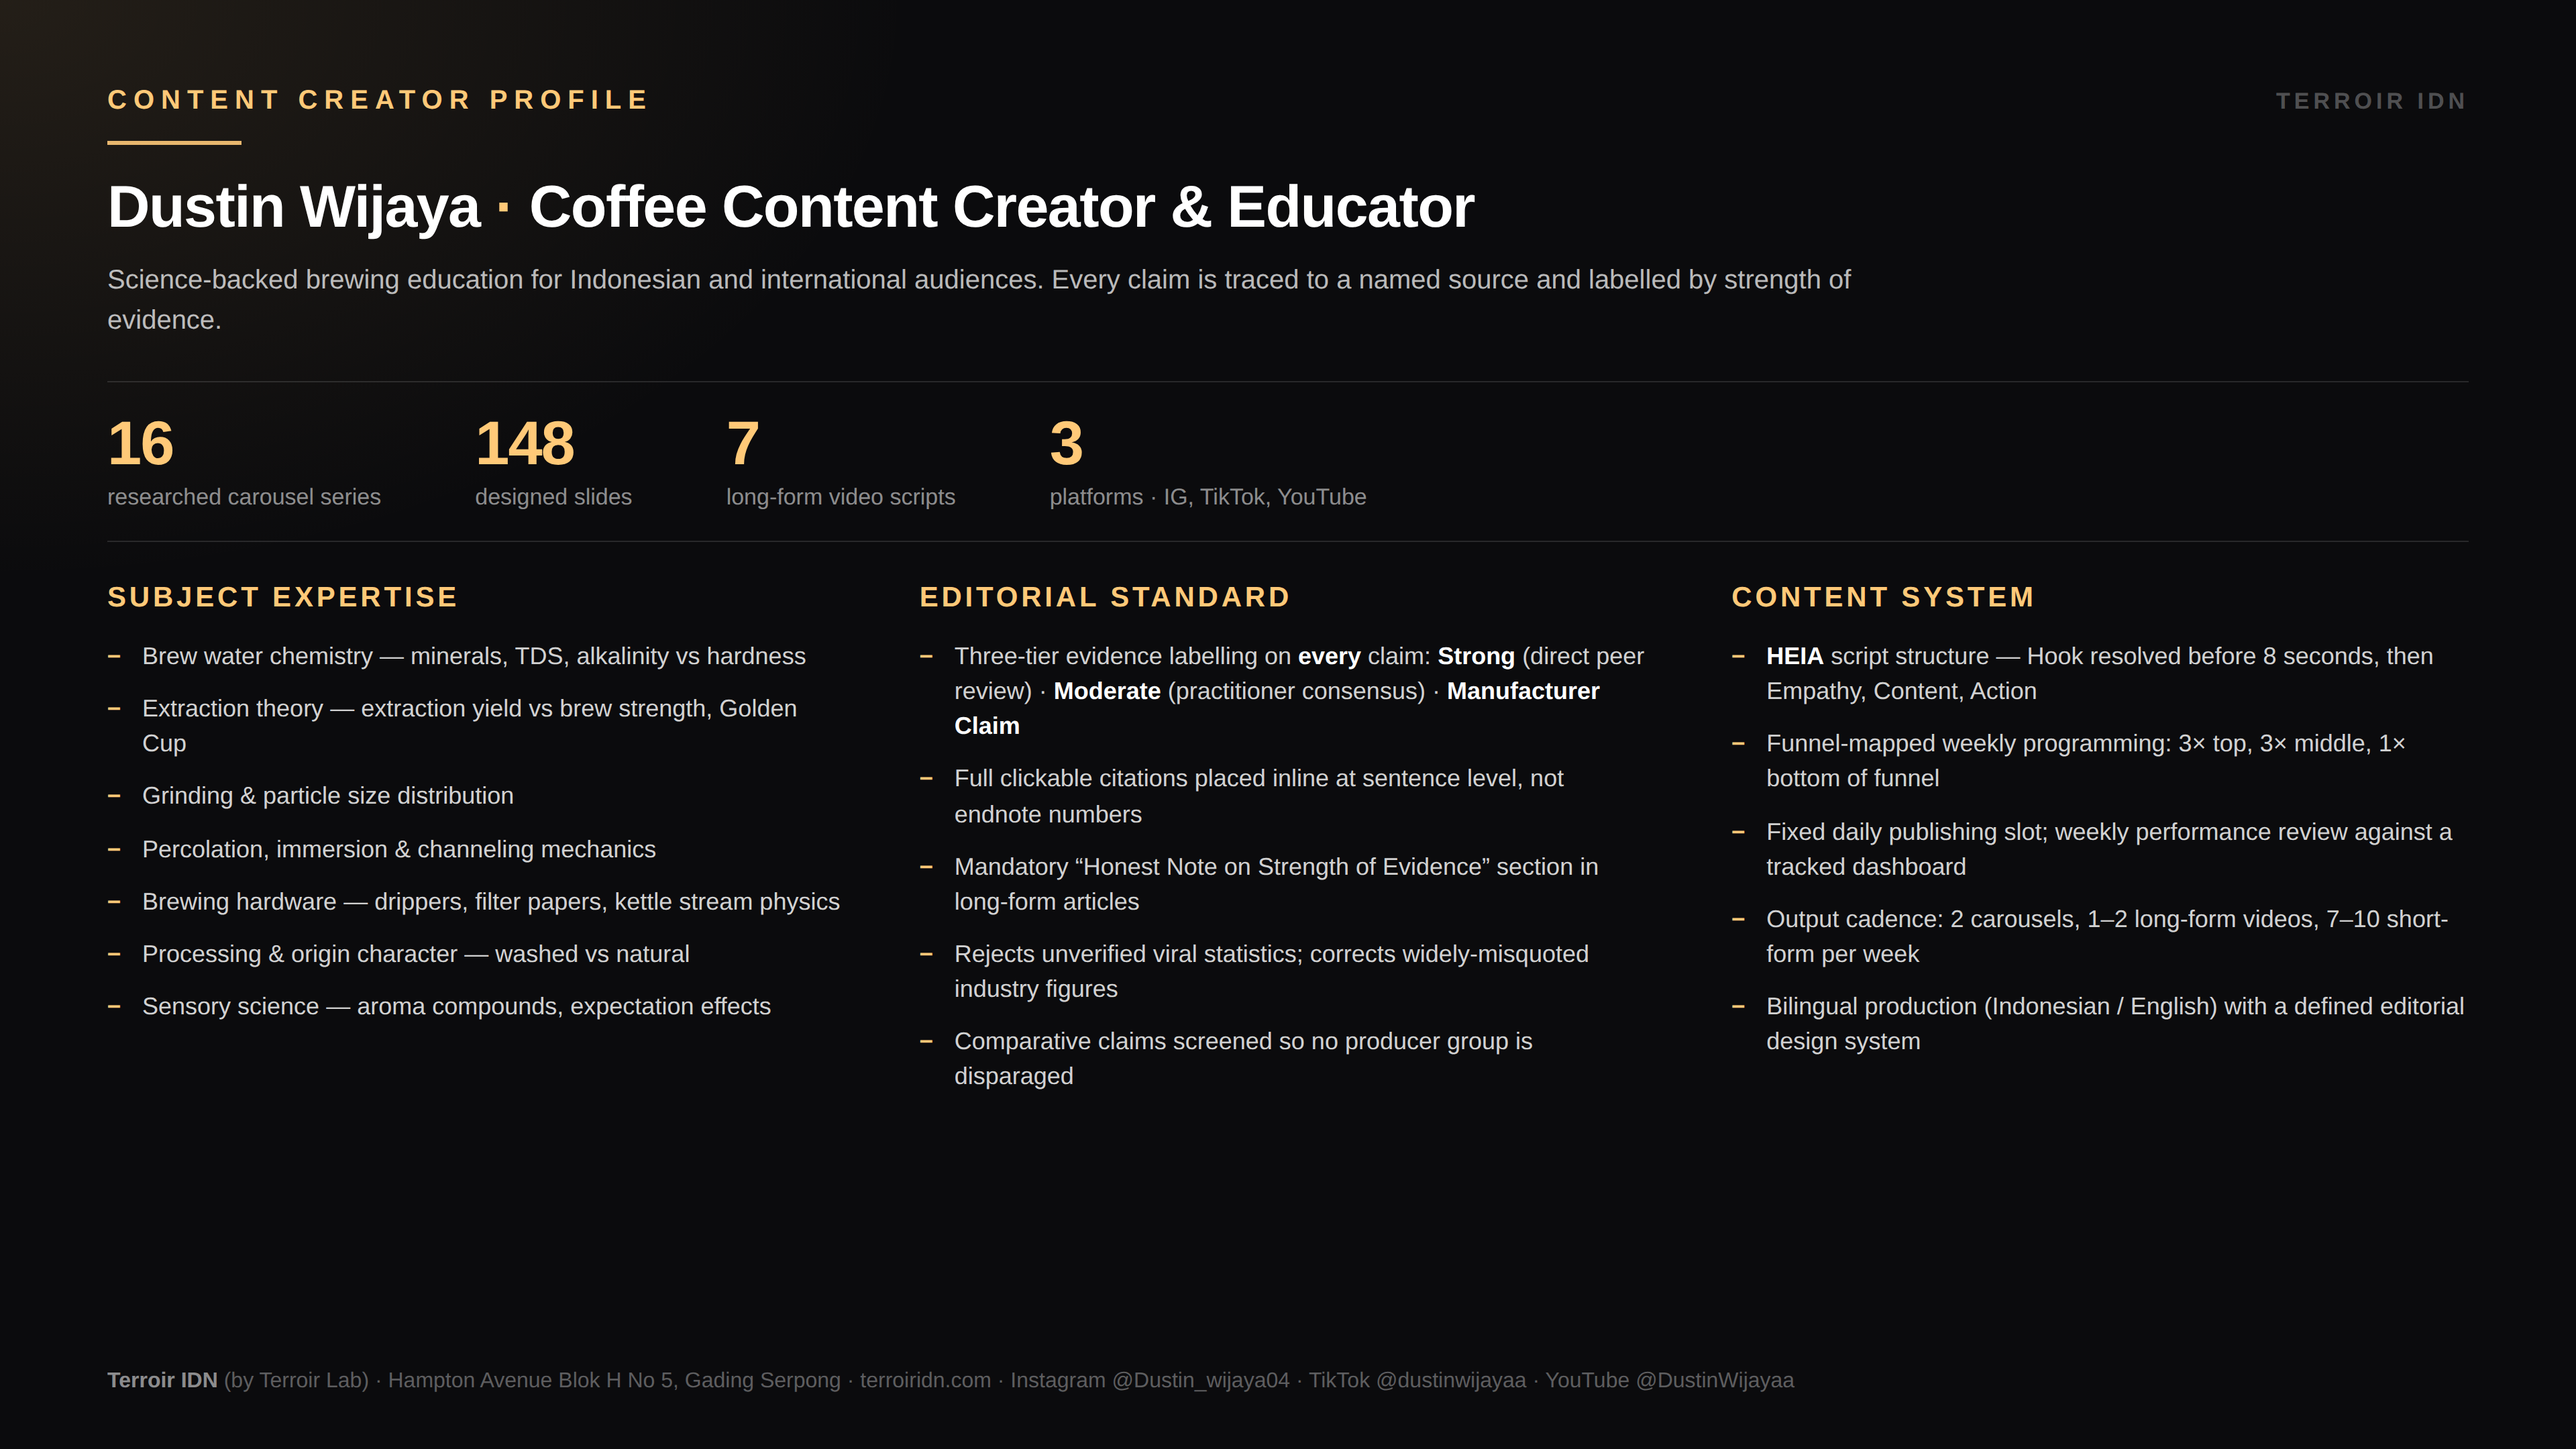
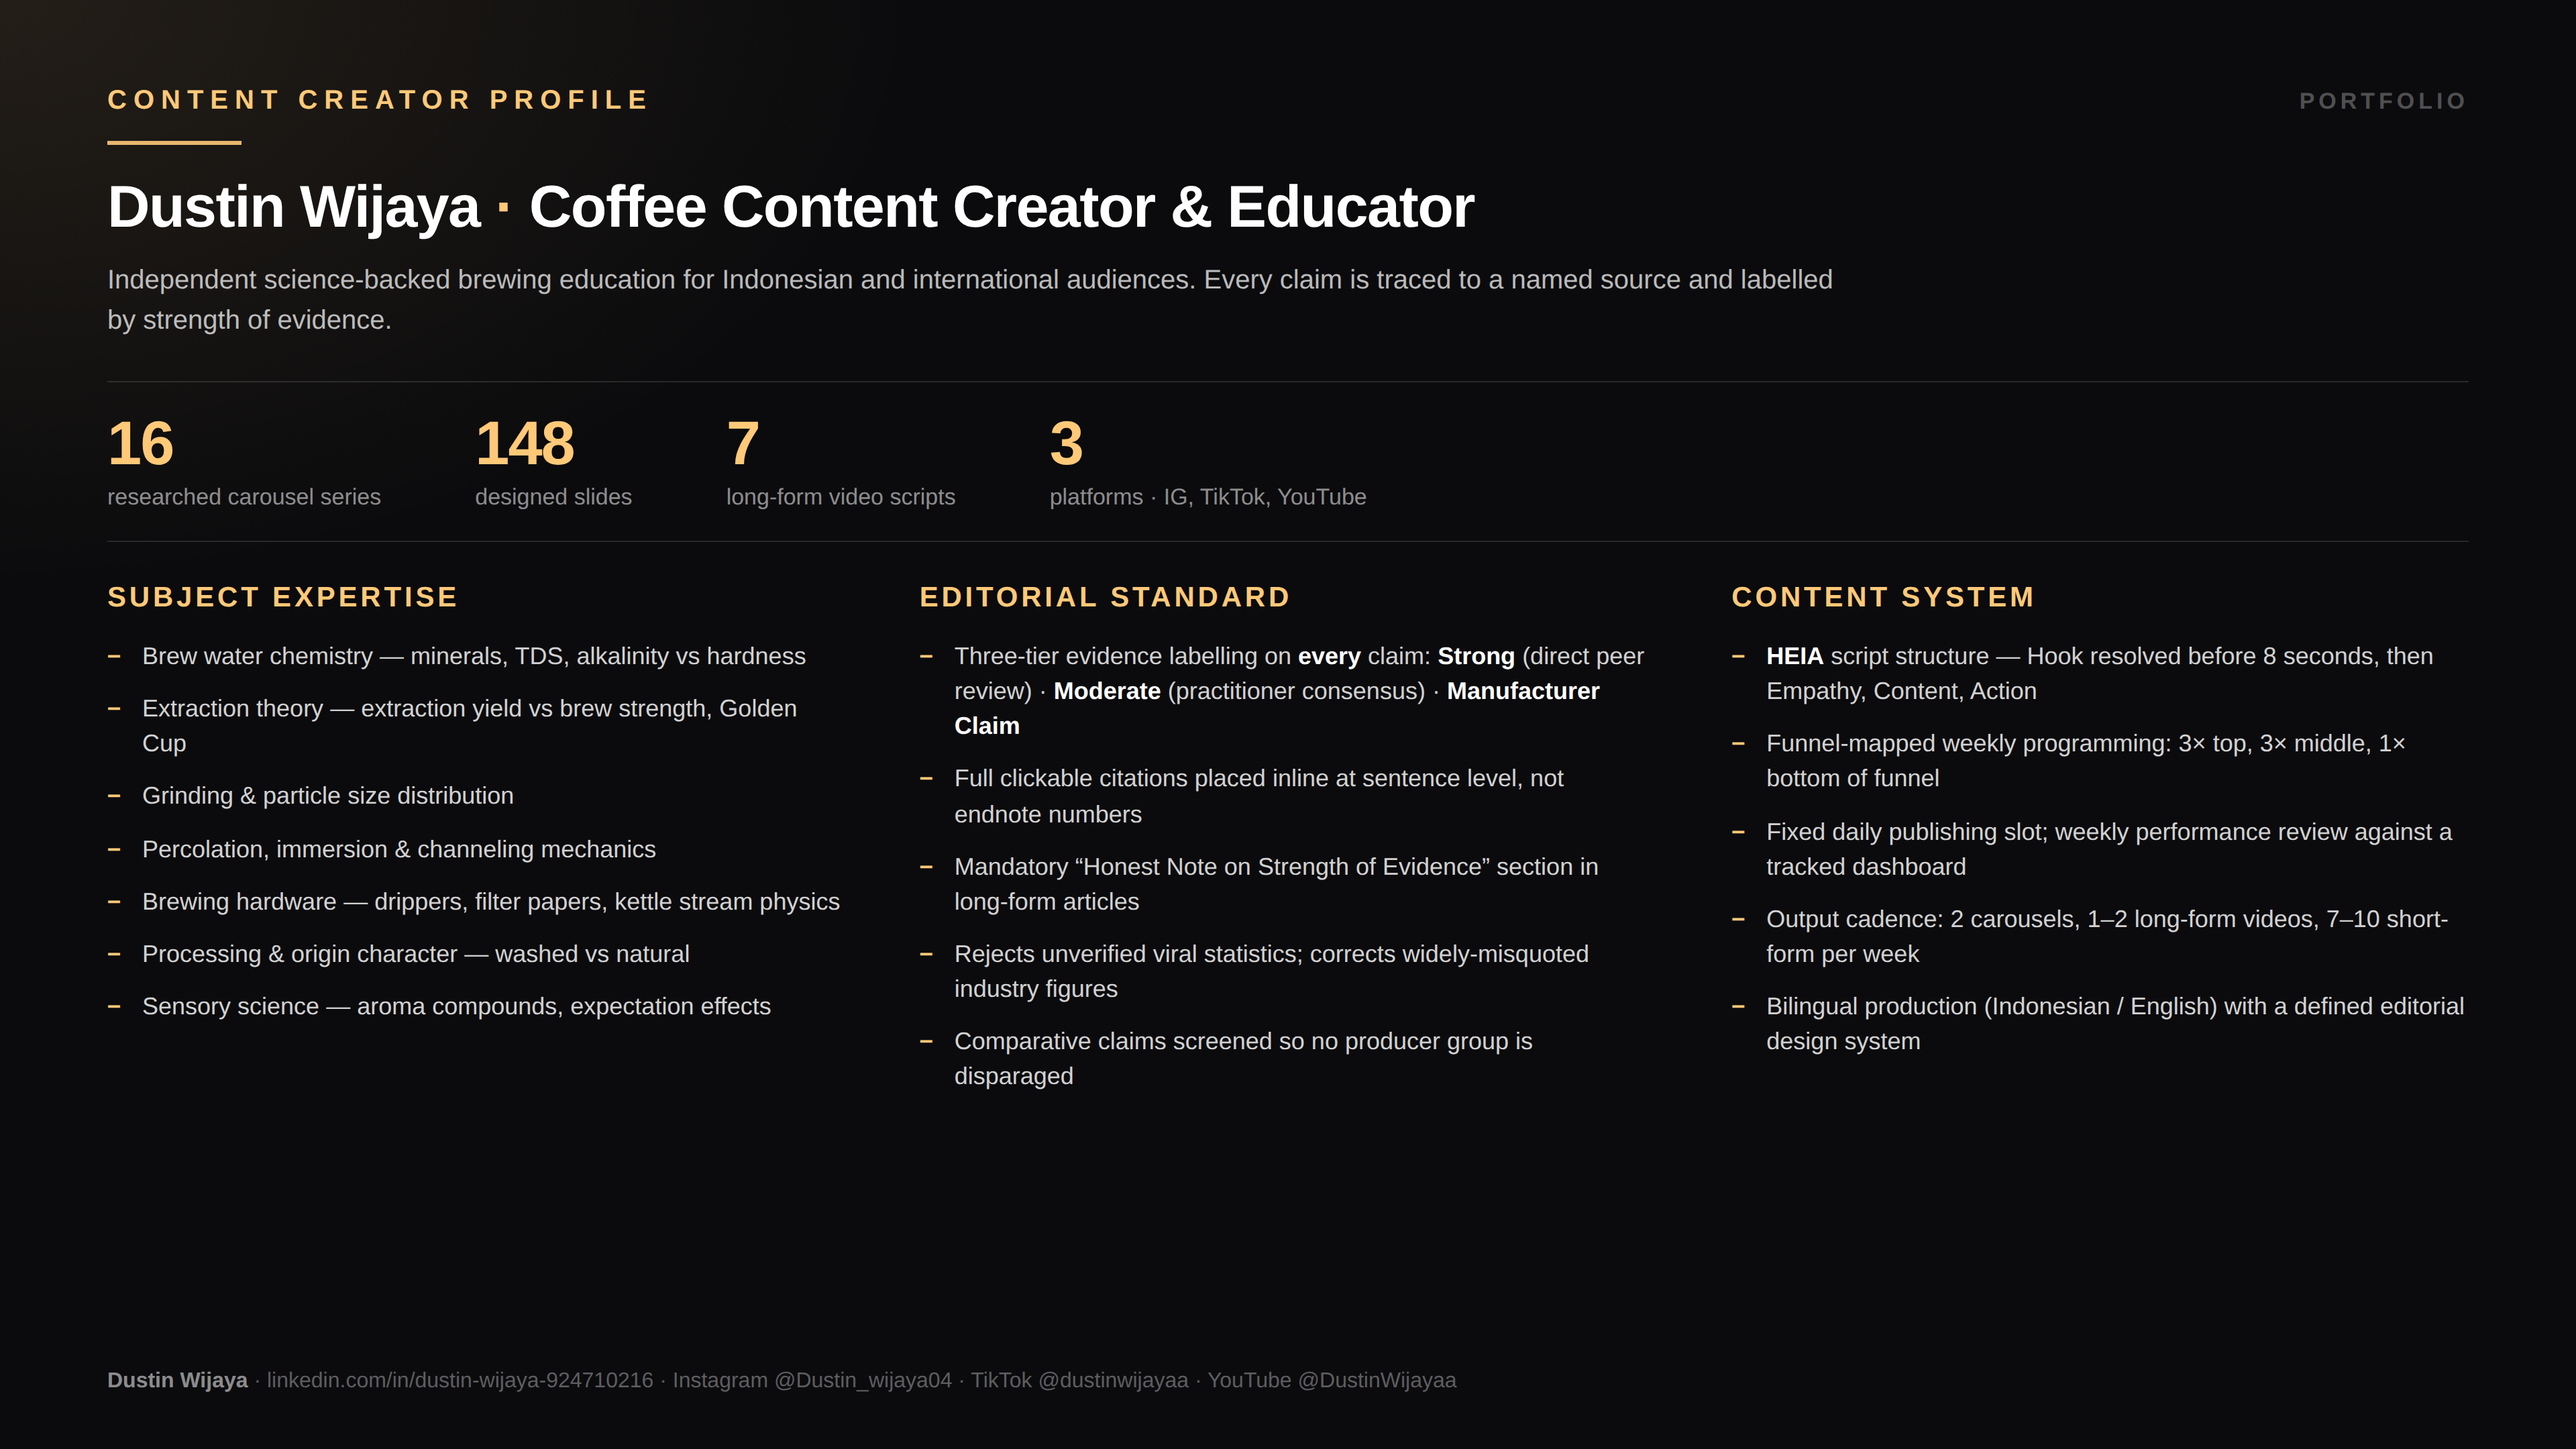
Ganti materi CV jadi format resume, hapus penyebutan Terroir
- cv/Resume - Dustin Wijaya (EN).docx menggantikan ringkasan profil lama,
  format mengikuti contoh resume yang dikirim Dustin
- Pengalaman konten kopi ditulis sebagai Independent, bukan Terroir IDN,
  atas permintaan langsung Dustin
- Tambah LinkedIn ke baris kontak; catat bahwa isi profil LinkedIn tidak
  bisa dibaca dari environment ini dan harus diminta ke Dustin
- Perbarui assets/gfx-profile-dustin.png tanpa penyebutan Terroir

Claude-Session: https://claude.ai/code/session_01DWyspajaqx8W3wFxgo15X2

Changed region(s): [[0.0312, 0.1861, 0.7188, 0.2481], [0.0312, 0.9306, 0.6875, 0.9616], [0.875, 0.062, 0.9375, 0.0931]]

diff --git a/CLAUDE.md b/CLAUDE.md
@@ -151,15 +151,24 @@ Render HTML → screenshot JPEG quality 94 / PNG `omitBackground: true`.
 | `gfx-labastilla/` | 6 grafis untuk script Nicaragua La Bastilla |
 | `gfx-tuangan/` | 4 grafis tinggi tuangan: `gfx-tinggi-tuangan` (tiga tinggi berdampingan) · `gfx-avalanche` (siklus 4 langkah) · `gfx-panjang-pecah` (breakup length) · `gfx-peta-tuangan` (tabel kapan turun/naik) |
 
-### `cv/` — materi profil untuk CV Dustin
+### `cv/` — materi lamaran kerja Dustin
 | File | Isi |
 |---|---|
-| `CV - Dustin Wijaya Profile Summary (EN).docx` | Ringkasan profil **bahasa Inggris** siap tempel ke CV: professional profile, subject expertise, editorial standard, content system, source literacy, selected work, plus bullet siap pakai. Grafisnya `assets/gfx-profile-dustin.png` |
+| `Resume - Dustin Wijaya (EN).docx` | Resume bahasa Inggris, format mengikuti contoh resume temannya (Josua): nama besar, subjudul jabatan, baris kontak, lalu SUMMARY · EXPERIENCE · SKILLS · EDUCATION · CERTIFICATIONS. Tanggal rata kanan pakai tab stop |
 
-⚠ **Yang SENGAJA dikosongkan** karena tidak ada di catatan — jangan diisi tebak-tebakan: jabatan & masa kerja
-di Terroir IDN · pendidikan · sertifikasi (Q Grader/SCA) · angka follower & engagement · riwayat kompetisi ·
-pengalaman kerja sebelumnya. Juga belum jelas: **handle Instagram mana yang aktif** (`@Dustin_wijaya04` dipakai
-di semua carousel, tapi Dustin pernah kasih link `instagram.com/dustinwijaya_`).
+⚠ **JANGAN SEBUT TERROIR IDN DI MATERI CV.** Permintaan langsung Dustin — dia juga pernah kerja di bidang
+lain dan tidak mau pengalamannya dikaitkan ke Terroir. Pengalaman kopi ditulis sebagai **Independent**.
+Berlaku juga untuk `assets/gfx-profile-dustin.png`.
+
+**LinkedIn Dustin:** https://www.linkedin.com/in/dustin-wijaya-924710216/
+⚠ **Tidak bisa dibaca dari environment ini** — proxy menolak LinkedIn (CONNECT tunnel 403) dan profil
+LinkedIn tidak terindeks di WebSearch karena butuh login. Kalau butuh isi pengalamannya, **minta Dustin
+copy-paste**. Jangan mengarang isi profilnya.
+
+⚠ **Yang masih kosong di resume** (sengaja dibiarkan placeholder, jangan diisi tebakan): nomor telepon ·
+kota · pengalaman kerja non-kopi (2 blok placeholder) · pendidikan · sertifikasi · tanggal mulai pekerjaan
+konten. Juga belum jelas **handle Instagram mana yang aktif** (`@Dustin_wijaya04` dipakai di semua carousel,
+tapi Dustin pernah kasih link `instagram.com/dustinwijaya_`).
 
 ### `blog/` — artikel untuk website terroiridn.com
 | File | Isi |
